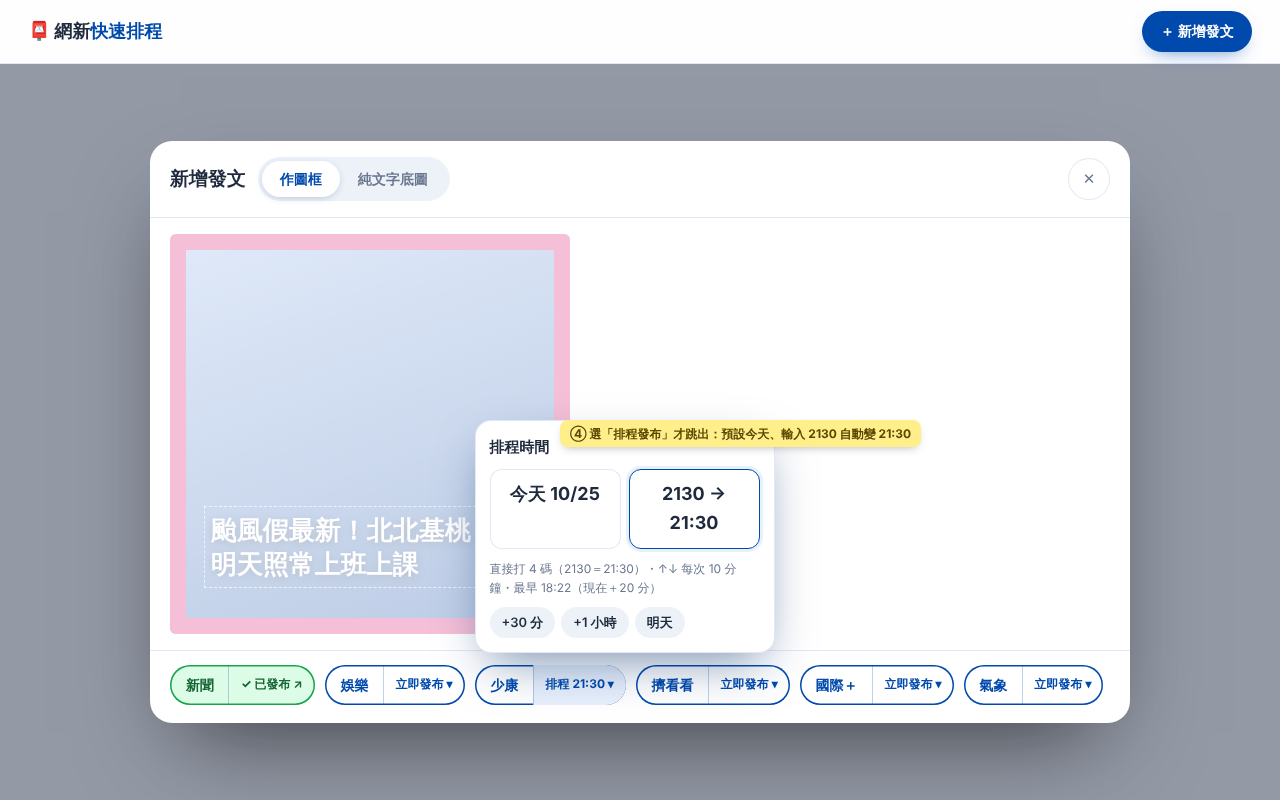
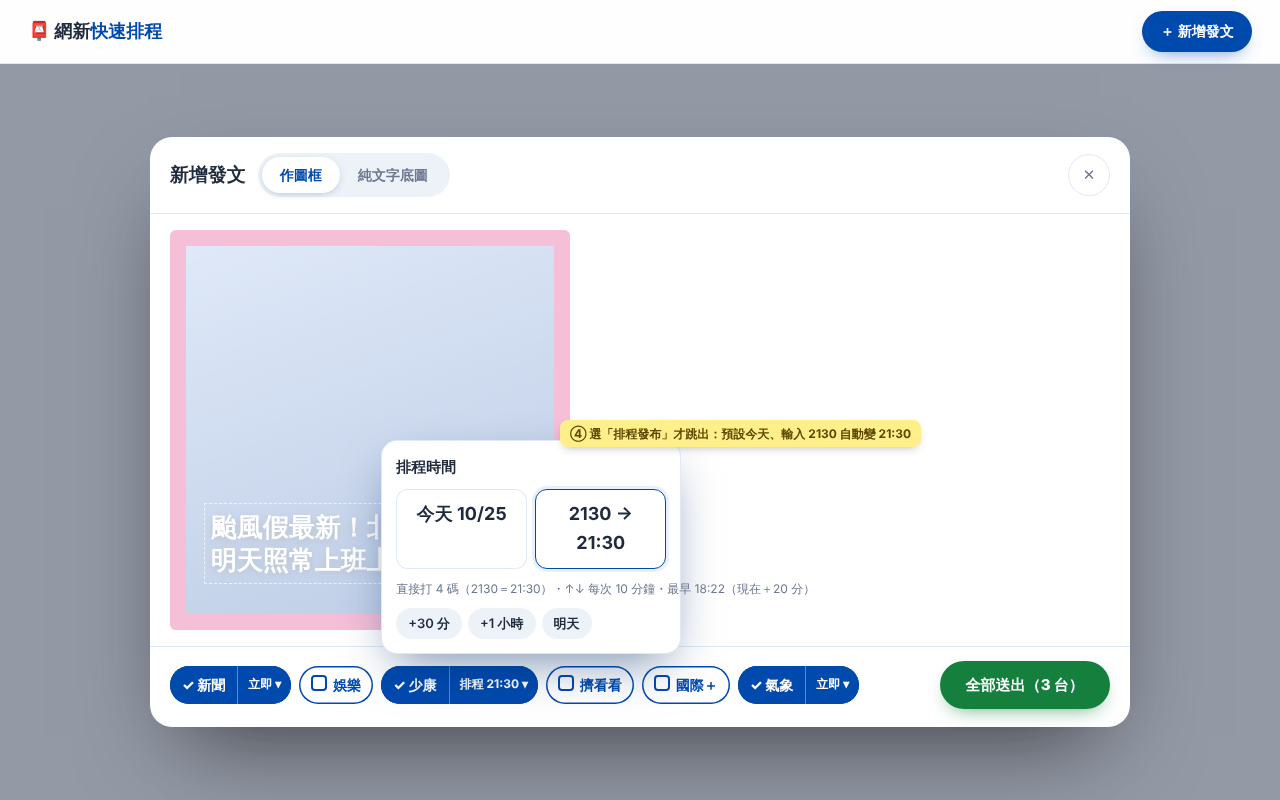
feat: 自製圖（data URL）測試頁；草圖改為單一全部送出
- extension：允許預覽用的 /render，圖片回應轉成 data URL 傳回頁面（v0.2.0）
- web/render-test.html：拿舊版 render 請求當對照組，換成瀏覽器自製圖測後端是否接受
- docs/mockups：粉專按鈕改為勾選＋立即／排程，只留一顆兩段式「全部送出」，失敗才個別重送

Claude-Session: https://claude.ai/code/session_01TECHAqMRmLGhmkPB8YHbPX

Changed region(s): [[0.125, 0.5, 0.875, 0.9062], [0.125, 0.1562, 0.875, 0.3125]]

diff --git a/docs/mockups/mockup-v3.html b/docs/mockups/mockup-v3.html
@@ -94,6 +94,16 @@ label{font-size:13px;font-weight:700;color:var(--muted)}
 .tin .in.f{box-shadow:0 0 0 3px var(--soft);border-color:var(--accent)}
 .st2{display:flex;gap:4px;flex-wrap:wrap}.st2 .chip{font-size:11px}
 .guardline{display:flex;align-items:center;gap:8px;font-size:13px;color:var(--muted)}
+.pb.sel{background:var(--accent)}.pb.sel .n,.pb.sel .o{color:#fff;border-color:rgba(255,255,255,.35)}
+.pb.off .n:before{content:"";display:inline-block;width:12px;height:12px;border-radius:4px;border:2px solid var(--accent);margin-right:6px;vertical-align:-1px}
+.pb.sel .n:before{content:"✓ "}
+.sendbar{display:flex;align-items:center;gap:12px}.sendbar .sp{flex:1}
+.send{position:relative;display:inline-flex;align-items:center;gap:6px;border-radius:999px;padding:12px 26px;font-weight:800;font-size:15px;background:var(--go);color:#fff;box-shadow:0 8px 20px -10px rgba(21,128,61,.8)}
+.send.arm{background:#b45309;box-shadow:0 0 0 4px #fde68a}
+.bub.wide{width:330px;left:auto;right:0;transform:none}.bub.wide:after{left:auto;right:40px;transform:none}
+.bub table{width:100%;border-collapse:collapse;margin:6px 0;font-size:13px}.bub td{padding:3px 0;border-top:1px solid rgba(255,255,255,.12)}
+.pb.off .o{display:none}.send,.sendbar .m{white-space:nowrap}.sendbar .pbtns{gap:8px}.sendbar .pb .n{padding:8px 12px}.sendbar .pb .o{padding:8px 10px}
+.retry{font-size:11px;font-weight:800;background:#fff;color:#9b1c1c;border-radius:999px;padding:2px 8px;margin-left:6px}
 </style></head><body>
 
 <!-- W1 列表＋狀態 -->
@@ -105,7 +115,7 @@ label{font-size:13px;font-weight:700;color:var(--muted)}
     <div class="card list">
       <div class="hd"><b>送出紀錄</b><span class="m">本機紀錄・游標移到狀態可看細節</span></div>
       <div class="row"><div class="th"></div><div><div class="t">颱風假最新！北北基桃明天照常上班上課</div><div class="m">今天 17:58 送出・作圖框</div></div>
-        <div class="st2"><span class="chip ok">新聞・已發布 ↗</span><span class="chip">少康・排程 18:40</span><span class="chip e">氣象・失敗 ↻</span></div></div>
+        <div class="st2"><span class="chip ok">新聞・已發布 ↗</span><span class="chip">少康・排程 18:40</span><span class="chip e">氣象・失敗 ↻ 重送</span></div></div>
       <div class="row"><div class="th c" style="background:#b00020"></div><div><div class="t">【快訊】北市宣布明天停班停課</div><div class="m">今天 17:40 送出・純文字底圖</div></div>
         <div class="st2"><span class="chip ok">新聞・已發布 ↗</span><span class="chip ok">氣象・已發布 ↗</span></div></div>
       <div class="row"><div class="th pk"></div><div><div class="t">金曲歌后現身後台 曝新專輯進度</div><div class="m">今天 16:12 送出・作圖框</div></div>
@@ -137,19 +147,18 @@ label{font-size:13px;font-weight:700;color:var(--muted)}
       </div>
     </div>
     <div class="mf">
-      <div class="guardline">🛡 送出時會自動跑守則判讀</div>
-      <div class="pbtns">
-        <div class="pb"><span class="n">新聞</span><span class="o">立即發布 ▾</span><div class="menu"><div class="on">✓ 立即發布</div><div>排程發布…</div></div></div>
-        <div class="pb"><span class="n">娛樂</span><span class="o">立即發布 ▾</span></div>
-        <div class="pb"><span class="n">少康</span><span class="o">立即發布 ▾</span></div>
-        <div class="pb"><span class="n">擠看看</span><span class="o">立即發布 ▾</span></div>
-        <div class="pb"><span class="n">國際＋</span><span class="o">立即發布 ▾</span></div>
-        <div class="pb"><span class="n">氣象</span><span class="o">立即發布 ▾</span></div>
-      </div>
+      <div class="sendbar"><div class="pbtns">
+        <div class="pb sel"><span class="n">新聞</span><span class="o">立即 ▾</span><div class="menu"><div class="on">✓ 立即發布</div><div>排程發布…</div></div></div>
+        <div class="pb off"><span class="n">娛樂</span><span class="o"></span></div>
+        <div class="pb sel"><span class="n">少康</span><span class="o">排程 21:30 ▾</span></div>
+        <div class="pb off"><span class="n">擠看看</span><span class="o"></span></div>
+        <div class="pb off"><span class="n">國際＋</span><span class="o"></span></div>
+        <div class="pb sel"><span class="n">氣象</span><span class="o">立即 ▾</span></div>
+      </div><div class="sp"></div><span class="m">🛡 送出時自動判讀</span><span class="send">全部送出（3 台）</span></div>
     </div>
   </div></div>
   <div class="anno" style="left:40px;top:120px">② 中間彈窗、一頁完成（沿用 QPT 做圖）</div>
-  <div class="anno" style="left:640px;top:640px">③ 每個粉專一顆按鈕，▾ 切換立即／排程（預設立即）</div>
+  <div class="anno" style="left:640px;top:640px">③ 粉專按鈕＝勾選；▾ 切換立即／排程（預設立即）</div>
 </div>
 
 <!-- W3 排程時間選擇 -->
@@ -159,19 +168,18 @@ label{font-size:13px;font-weight:700;color:var(--muted)}
     <div class="mh"><h2>新增發文</h2><div class="seg"><span class="on">作圖框</span><span>純文字底圖</span></div><div class="sp"></div><div class="x">✕</div></div>
     <div class="mb" style="opacity:.35"><div class="pv"><div class="ttl">颱風假最新！北北基桃<br>明天照常上班上課</div></div><div></div></div>
     <div class="mf">
-      <div class="pbtns">
-        <div class="pb done"><span class="n">新聞</span><span class="o">✓ 已發布 ↗</span></div>
-        <div class="pb"><span class="n">娛樂</span><span class="o">立即發布 ▾</span></div>
-        <div class="pb sch"><span class="n">少康</span><span class="o">排程 21:30 ▾</span>
-          <div class="pop"><b>排程時間</b>
+      <div class="sendbar"><div class="pbtns">
+        <div class="pb sel"><span class="n">新聞</span><span class="o">立即 ▾</span></div>
+        <div class="pb off"><span class="n">娛樂</span><span class="o"></span></div>
+        <div class="pb sel"><span class="n">少康</span><span class="o">排程 21:30 ▾</span><div class="pop"><b>排程時間</b>
             <div class="tin"><div class="in">今天 10/25</div><div class="in f">2130 → 21:30</div></div>
             <div class="m" style="font-size:12px">直接打 4 碼（2130＝21:30）・↑↓ 每次 10 分鐘・最早 18:22（現在＋20 分）</div>
             <div style="display:flex;gap:6px;flex-wrap:wrap"><span class="btn s">+30 分</span><span class="btn s">+1 小時</span><span class="btn s">明天</span></div>
           </div></div>
-        <div class="pb"><span class="n">擠看看</span><span class="o">立即發布 ▾</span></div>
-        <div class="pb"><span class="n">國際＋</span><span class="o">立即發布 ▾</span></div>
-        <div class="pb"><span class="n">氣象</span><span class="o">立即發布 ▾</span></div>
-      </div>
+        <div class="pb off"><span class="n">擠看看</span><span class="o"></span></div>
+        <div class="pb off"><span class="n">國際＋</span><span class="o"></span></div>
+        <div class="pb sel"><span class="n">氣象</span><span class="o">立即 ▾</span></div>
+      </div><div class="sp"></div><span class="send">全部送出（3 台）</span></div>
     </div>
   </div></div>
   <div class="anno" style="left:560px;top:420px">④ 選「排程發布」才跳出：預設今天、輸入 2130 自動變 21:30</div>
@@ -184,18 +192,37 @@ label{font-size:13px;font-weight:700;color:var(--muted)}
     <div class="mh"><h2>新增發文</h2><div class="seg"><span class="on">作圖框</span><span>純文字底圖</span></div><div class="sp"></div><div class="x">✕</div></div>
     <div class="mb" style="opacity:.35"><div class="pv"><div class="ttl">颱風假最新！北北基桃<br>明天照常上班上課</div></div><div></div></div>
     <div class="mf">
-      <div class="pbtns">
-        <div class="pb done"><span class="n">新聞</span><span class="o">✓ 已發布 ↗</span></div>
-        <div class="pb arm"><span class="n">確認送出</span><span class="o">娛樂・立即</span>
-          <div class="bub"><b>立即發布到「TVBS娛樂」？</b><br><b class="l" style="background:#facc15"></b>守則黃燈：標題用語較聳動<br><span style="opacity:.75">再按一次送出・點其他地方取消</span></div></div>
-        <div class="pb sch"><span class="n">少康</span><span class="o">排程 21:30 ▾</span></div>
-        <div class="pb fail"><span class="n">擠看看</span><span class="o">✗ 失敗・重送</span></div>
-        <div class="pb arm" style="margin-left:40px"><span class="n">確認送出</span><span class="o">氣象・立即</span>
-          <div class="bub" style="left:auto;right:-20px;transform:none"><b>立即發布到「TVBS氣象」？</b><br><b class="l" style="background:#ef4444"></b>守則紅燈：疑似未證實傷亡數字<div class="ck"><i></i>我知道風險，仍要送出</div><span style="opacity:.75">勾選後才能按確認送出</span></div></div>
-      </div>
+      <div class="sendbar"><div class="pbtns">
+        <div class="pb sel"><span class="n">新聞</span><span class="o">立即 ▾</span></div>
+        <div class="pb off"><span class="n">娛樂</span><span class="o"></span></div>
+        <div class="pb sel"><span class="n">少康</span><span class="o">排程 21:30 ▾</span></div>
+        <div class="pb off"><span class="n">擠看看</span><span class="o"></span></div>
+        <div class="pb off"><span class="n">國際＋</span><span class="o"></span></div>
+        <div class="pb sel"><span class="n">氣象</span><span class="o">立即 ▾</span></div>
+      </div><div class="sp"></div><span class="send arm">確認送出<div class="bub wide"><b>確定送出 3 台？</b>
+            <table><tr><td>新聞</td><td>立即發布</td></tr><tr><td>少康</td><td>排程 今天 21:30</td></tr><tr><td>氣象</td><td>立即發布</td></tr></table>
+            <b class="l" style="background:#facc15"></b>守則黃燈：標題用語較聳動<br>
+            <span style="opacity:.75">（紅燈時這裡會多一個「我知道風險」勾選框）</span><br><span style="opacity:.75">再按一次送出・點其他地方取消</span></div></span></div>
     </div>
   </div></div>
-  <div class="anno" style="left:600px;top:260px">⑤ 第 1 次按：自動判讀＋泡泡；按鈕變「確認送出」→ 第 2 次才送</div>
-  <div class="anno" style="left:600px;top:300px">⑥ 紅燈時泡泡內勾選</div>
-</div>
+  <div class="anno" style="left:600px;top:260px">⑤ 只有一顆「全部送出」：第 1 次自動判讀＋泡泡列出各台，第 2 次才送</div>
+  </div>
+<!-- W5 送出結果 -->
+<div class="screen" id="w5">
+  <div class="top"><div class="logo">📮 網新<b>快速排程</b></div><div class="sp"></div><span class="btn p">＋ 新增發文</span></div>
+  <div class="ov"><div class="mdl">
+    <div class="mh"><h2>新增發文</h2><div class="seg"><span class="on">作圖框</span><span>純文字底圖</span></div><div class="sp"></div><div class="x">✕</div></div>
+    <div class="mb" style="opacity:.35"><div class="pv"><div class="ttl">颱風假最新！北北基桃<br>明天照常上班上課</div></div><div></div></div>
+    <div class="mf">
+      <div class="sendbar"><div class="pbtns">
+        <div class="pb done"><span class="n">新聞</span><span class="o">✓ 已發布 ↗</span></div>
+        <div class="pb off"><span class="n">娛樂</span><span class="o"></span></div>
+        <div class="pb done"><span class="n">少康</span><span class="o">✓ 排程 21:30</span></div>
+        <div class="pb off"><span class="n">擠看看</span><span class="o"></span></div>
+        <div class="pb off"><span class="n">國際＋</span><span class="o"></span></div>
+        <div class="pb fail"><span class="n">氣象</span><span class="o">✗ 失敗<span class="retry">↻ 重送</span></span></div>
+      </div><div class="sp"></div><span class="m">2 台成功・1 台失敗</span><span class="btn">清空頁面</span></div>
+    </div>
+  </div></div>
+    </div>
 </body></html>

diff --git a/web/render-test.js b/web/render-test.js
@@ -1,0 +1,128 @@
+// 自製圖測試：把舊版 /render 請求的 image_url 換成瀏覽器產生的 data URL，看後端收不收。
+(function () {
+  const ORIGIN = location.origin;
+  const $ = id => document.getElementById(id);
+  const pending = new Map();
+  let seq = 0, extReady = false, testDataUrl = '', lastReport = null;
+
+  window.addEventListener('message', e => {
+    if (e.source !== window || e.origin !== ORIGIN) return;
+    const d = e.data;
+    if (!d || d.source !== 'snn-ext') return;
+    if (d.type === 'ready') { setExt(true, d.version); return; }
+    if (pending.has(d.nonce)) { pending.get(d.nonce)(d); pending.delete(d.nonce); }
+  });
+  function call(op, payload, timeout) {
+    return new Promise(resolve => {
+      const nonce = 'r' + Date.now().toString(36) + (seq++);
+      const timer = setTimeout(() => { pending.delete(nonce); resolve({ ok: false, error: 'no_extension' }); }, timeout || 60000);
+      pending.set(nonce, r => { clearTimeout(timer); resolve(r); });
+      window.postMessage({ source: 'snn-web', nonce, op, payload }, ORIGIN);
+    });
+  }
+  function setExt(ok, version) {
+    extReady = ok;
+    $('ext').className = 'status ' + (ok ? 'ok' : 'bad');
+    $('ext').textContent = ok
+      ? (version >= '0.2.0' ? `外掛：已連線（v${version}）` : `外掛：v${version} 太舊，請到 chrome://extensions 按外掛的「重新載入」後重新整理本頁`)
+      : '外掛：沒有偵測到，請先載入 extension 資料夾後重新整理本頁。';
+  }
+
+  // 產生測試圖：漸層＋馬賽克＋黃色圓形貼圖＋時間戳記，一眼就能認出來
+  function makeTestImage() {
+    const c = document.createElement('canvas');
+    c.width = c.height = 1080;
+    const g = c.getContext('2d');
+    const grad = g.createLinearGradient(0, 0, 1080, 1080);
+    grad.addColorStop(0, '#7dd3fc'); grad.addColorStop(1, '#7c3aed');
+    g.fillStyle = grad; g.fillRect(0, 0, 1080, 1080);
+    for (let y = 0; y < 6; y++) for (let x = 0; x < 10; x++) {
+      g.fillStyle = (x + y) % 2 ? '#94a3b8' : '#cbd5e1'; g.fillRect(140 + x * 30, 300 + y * 30, 30, 30);
+    }
+    g.fillStyle = '#facc15'; g.beginPath(); g.arc(800, 280, 130, 0, Math.PI * 2); g.fill();
+    g.fillStyle = '#1f2a3d'; g.font = 'bold 120px sans-serif'; g.textAlign = 'center'; g.textBaseline = 'middle'; g.fillText('!', 800, 285);
+    const now = new Date();
+    g.fillStyle = '#fff'; g.font = 'bold 76px sans-serif';
+    g.fillText('DATA URL TEST', 540, 640);
+    g.font = 'bold 56px sans-serif';
+    g.fillText(`${now.getHours()}:${String(now.getMinutes()).padStart(2, '0')}:${String(now.getSeconds()).padStart(2, '0')}`, 540, 730);
+    return c.toDataURL('image/jpeg', 0.9);
+  }
+  function setTestImage(url, info) {
+    testDataUrl = url;
+    $('testImg').src = url;
+    $('imgInfo').textContent = `${info}・約 ${Math.round(url.length * 0.75 / 1024)} KB`;
+  }
+  $('file').addEventListener('change', () => {
+    const f = $('file').files[0];
+    if (!f) return;
+    const r = new FileReader();
+    r.onload = () => setTestImage(r.result, `自選圖：${f.name}`);
+    r.readAsDataURL(f);
+  });
+
+  function parsePayload() {
+    const raw = $('payload').value.trim();
+    if (!raw) return { error: '請先貼上舊版 render 的請求內容' };
+    try {
+      const p = JSON.parse(raw);
+      if (!p || typeof p !== 'object' || !('image_url' in p)) return { error: '內容裡沒有 image_url，請確認複製的是 render 那一筆' };
+      return { payload: p };
+    } catch (e) { return { error: '不是正確的 JSON：' + e.message }; }
+  }
+  $('payload').addEventListener('input', () => {
+    const r = parsePayload();
+    $('payloadHint').className = 'hint' + (r.error ? ' bad' : '');
+    $('payloadHint').textContent = r.error || `✓ 讀到 template=${r.payload.template || '（空）'}、crop=${r.payload.crop ? '有' : '無'}`;
+  });
+
+  const esc = s => String(s).replace(/[&<>"]/g, c => ({ '&': '&amp;', '<': '&lt;', '>': '&gt;', '"': '&quot;' }[c]));
+
+  async function run() {
+    if (!extReady) { const p = await call('ping', {}, 1500); if (p.ok) setExt(true, p.version); else { setExt(false); return; } }
+    const parsed = parsePayload();
+    if (parsed.error) { $('payloadHint').className = 'hint bad'; $('payloadHint').textContent = parsed.error; return; }
+    const base = parsed.payload;
+    const prefix = $('prefix').value.trim().replace(/\/+$/, '');
+    const cases = [
+      { name: 'A 原始請求（對照組）', body: base },
+      { name: 'B 自製圖＋原本的取景框', body: { ...base, image_url: testDataUrl } },
+      { name: 'C 自製圖＋取景框清空', body: { ...base, image_url: testDataUrl, crop: null } }
+    ];
+    $('runBtn').disabled = true;
+    $('resultWrap').hidden = false;
+    $('results').innerHTML = '';
+    $('verdict').className = 'verdict';
+    $('verdict').textContent = '測試中…';
+    const report = [];
+    for (const c of cases) {
+      const r = await call('call', { mode: 'b1', path: `${prefix}/render`, method: 'POST', body: c.body }, 90000);
+      const d = r.data || {};
+      const img = !!d.image;
+      report.push({ case: c.name, ok: r.ok, status: d.status, contentType: d.contentType, image: img, error: r.error, snippet: d.snippet });
+      const box = document.createElement('div');
+      box.className = 'res';
+      box.innerHTML = `<b>${esc(c.name)}</b><span class="tag ${img ? 'ok' : 'bad'}">${img ? '有回圖' : '沒有回圖'}・${esc(d.status ?? r.error ?? '—')}</span>` +
+        (img ? `<img alt="${esc(c.name)} 結果">` : `<pre>${esc((d.snippet || r.error || '').slice(0, 400))}</pre>`);
+      if (img) box.querySelector('img').src = d.image;
+      $('results').appendChild(box);
+    }
+    lastReport = { at: new Date().toISOString(), prefix, testImageKB: Math.round(testDataUrl.length * 0.75 / 1024), report };
+    const [a, b, cc] = report;
+    let v, ok = false;
+    if (!a.image) v = '對照組 A 就沒有回圖：請確認貼上的是 render 請求、API 前綴正確，再試一次。';
+    else if (b.image || cc.image) { v = `B 或 C 有回圖 → 請看圖：如果圖裡是「DATA URL TEST」測試圖（或你選的圖）加上網新的框和標題，代表後端收 data URL，折衷做法可行。`; ok = true; }
+    else v = 'A 有回圖、B 和 C 都沒有 → 後端不收 data URL，請按「複製文字結果」貼給我。';
+    $('verdict').className = 'verdict' + (ok ? ' ok' : '');
+    $('verdict').textContent = v;
+    $('runBtn').disabled = false;
+  }
+
+  $('runBtn').addEventListener('click', run);
+  $('copyBtn').addEventListener('click', () => {
+    if (!lastReport) return;
+    navigator.clipboard.writeText(JSON.stringify(lastReport, null, 2)).then(() => { $('copyBtn').textContent = '已複製'; setTimeout(() => { $('copyBtn').textContent = '複製文字結果（回報用）'; }, 1500); });
+  });
+  setTestImage(makeTestImage(), '自動產生的測試圖');
+  setTimeout(() => { if (!extReady) call('ping', {}, 1500).then(p => setExt(!!p.ok, p.version)); }, 300);
+})();

diff --git a/web/render-test.html b/web/render-test.html
@@ -1,0 +1,36 @@
+<!doctype html><html lang="zh-Hant"><head><meta charset="utf-8"><meta name="viewport" content="width=device-width,initial-scale=1">
+<meta http-equiv="Content-Security-Policy" content="default-src 'self'; style-src 'self'; script-src 'self'; img-src 'self' data: blob:">
+<title>自製圖測試</title><link rel="stylesheet" href="verify.css"></head>
+<body><main class="wrap">
+<section class="card">
+  <h1>自製圖測試（data URL）</h1>
+  <p class="muted">測試後端 <code>/render</code> 能不能接受「瀏覽器裡自己做的圖」當主圖。只呼叫產生預覽圖的 <code>/render</code>，<b>不會排程或發文</b>。</p>
+  <div class="status" id="ext">外掛：偵測中…</div>
+</section>
+<section class="card">
+  <h2>步驟 1：複製舊版的 render 請求內容</h2>
+  <ol class="muted">
+    <li>在舊版網新發文台，選「作圖框」，貼一篇文章網址，讓它產生預覽圖。</li>
+    <li>按 F12 → Network，點名稱是 <code>render</code> 的那一筆 → Payload → 「view source」，全選複製。</li>
+    <li>貼到下面。</li>
+  </ol>
+  <label for="payload">render 請求內容（JSON）</label>
+  <textarea id="payload" rows="7" placeholder='{"ip":"newsnet","mode":"single","template":"newsnet_news","image_url":"https://…","crop":{…},"title_lines":["…"]}'></textarea>
+  <div class="hint" id="payloadHint"></div>
+  <label for="prefix">API 路徑前綴（連線驗證時留空能過就留空）</label>
+  <input id="prefix" type="text" placeholder="留空">
+</section>
+<section class="card">
+  <h2>步驟 2：測試圖</h2>
+  <p class="muted">預設是自動產生的測試圖（漸層、馬賽克、貼圖、時間戳記）。也可以換成 QPT 匯出、不含框和標題的圖。</p>
+  <div class="row" style="justify-content:flex-start"><img id="testImg" class="thumb" alt="測試圖"><div><input id="file" type="file" accept="image/*"><p class="muted" id="imgInfo"></p></div></div>
+</section>
+<section class="card">
+  <div class="row"><button class="btn primary" id="runBtn" type="button">開始測試</button></div>
+  <div id="resultWrap" hidden>
+    <div class="verdict" id="verdict"></div>
+    <div class="grid" id="results"></div>
+    <button class="btn" id="copyBtn" type="button">複製文字結果（回報用）</button>
+  </div>
+</section>
+</main><script src="render-test.js"></script></body></html>

diff --git a/extension/background.js b/extension/background.js
@@ -2,9 +2,9 @@
 //   b1  外掛背景直接 fetch（帶 cookie）
 //   b1o 同 b1，但把 Origin 標頭改成網新網址（防後端檢查來源）
 //   b2  交給網新分頁，在原網域內 fetch（一定是同網域）
-// 只允許唯讀／判讀端點，不允許 /schedule、/publish。
+// 只允許唯讀／判讀／預覽端點，不允許 /schedule、/publish。
 const HOST = 'https://digi-social-post.tvbs.ai';
-const ALLOWED = [/^\/[\w\-/]*page_meta\?url=/, /^\/[\w\-/]*hero\?url=/, /^\/[\w\-/]*guard\/check$/];
+const ALLOWED = [/^\/[\w\-/]*page_meta\?url=/, /^\/[\w\-/]*hero\?url=/, /^\/[\w\-/]*guard\/check$/, /^\/[\w\-/]*render$/];
 const ORIGIN_RULE = 1;
 const SNIPPET = 600;
 
@@ -21,12 +21,21 @@ async function setOriginRule(on) {
   });
 }
 
+async function toDataUrl(blob) {
+  const bytes = new Uint8Array(await blob.arrayBuffer());
+  let bin = '';
+  for (let i = 0; i < bytes.length; i += 0x8000) bin += String.fromCharCode.apply(null, bytes.subarray(i, i + 0x8000));
+  return `data:${blob.type || 'image/png'};base64,${btoa(bin)}`;
+}
+
 async function doFetch(url, method, body) {
   const init = { method, credentials: 'include', headers: {} };
   if (body !== undefined) { init.headers['Content-Type'] = 'application/json'; init.body = JSON.stringify(body); }
   const r = await fetch(url, init);
-  const text = await r.text();
-  return { status: r.status, contentType: r.headers.get('content-type') || '', redirected: r.redirected, finalUrl: r.url, snippet: text.slice(0, SNIPPET) };
+  const contentType = r.headers.get('content-type') || '';
+  const base = { status: r.status, contentType, redirected: r.redirected, finalUrl: r.url };
+  if (/^image\//i.test(contentType)) return { ...base, snippet: '', image: await toDataUrl(await r.blob()) };
+  return { ...base, snippet: (await r.text()).slice(0, SNIPPET) };
 }
 
 async function viaTab(url, method, body) {

diff --git a/web/verify.css b/web/verify.css
@@ -28,3 +28,10 @@ td.snip{font-family:ui-monospace,Menlo,Consolas,monospace;word-break:break-all;m
 .tag{display:inline-block;padding:2px 10px;border-radius:999px;font-weight:700;font-size:12px;white-space:nowrap}
 .tag.ok{background:#dcfce7;color:#166534}.tag.bad{background:#fde2e2;color:#9b1c1c}.tag.warn{background:var(--warn-bg);color:var(--warn-fg)}
 #copyBtn{margin-top:12px}
+textarea{width:100%;font:13px/1.5 ui-monospace,Menlo,Consolas,monospace;color:inherit;background:var(--surface);border:1px solid var(--border);border-radius:12px;padding:10px 12px;resize:vertical}
+.hint{font-size:13px;margin-top:6px;color:var(--muted)}.hint.bad{color:var(--danger);font-weight:700}
+.thumb{width:160px;height:160px;object-fit:contain;border-radius:10px;background:var(--track)}
+.grid{display:grid;grid-template-columns:repeat(auto-fit,minmax(240px,1fr));gap:14px}
+.res{border:1px solid var(--border);border-radius:14px;padding:12px;display:flex;flex-direction:column;gap:8px}
+.res img{width:100%;border-radius:8px;background:var(--track)}
+.res pre{margin:0;font-size:12px;white-space:pre-wrap;word-break:break-all;max-height:120px;overflow:auto;color:var(--muted)}

diff --git a/web/index.html b/web/index.html
@@ -1,4 +1,4 @@
 <!doctype html><html lang="zh-Hant"><head><meta charset="utf-8"><meta name="viewport" content="width=device-width,initial-scale=1">
 <title>網新快速排程</title><link rel="stylesheet" href="verify.css"></head>
-<body><main class="wrap"><section class="card"><h1>網新快速排程</h1><p class="muted">正式介面開發中。目前只有連線驗證頁。</p>
-<a class="btn primary" href="verify.html">前往連線驗證</a></section></main></body></html>
+<body><main class="wrap"><section class="card"><h1>網新快速排程</h1><p class="muted">正式介面開發中。目前只有驗證頁。</p>
+<div class="row" style="justify-content:flex-start"><a class="btn primary" href="verify.html">連線驗證</a><a class="btn primary" href="render-test.html">自製圖測試</a></div></section></main></body></html>
